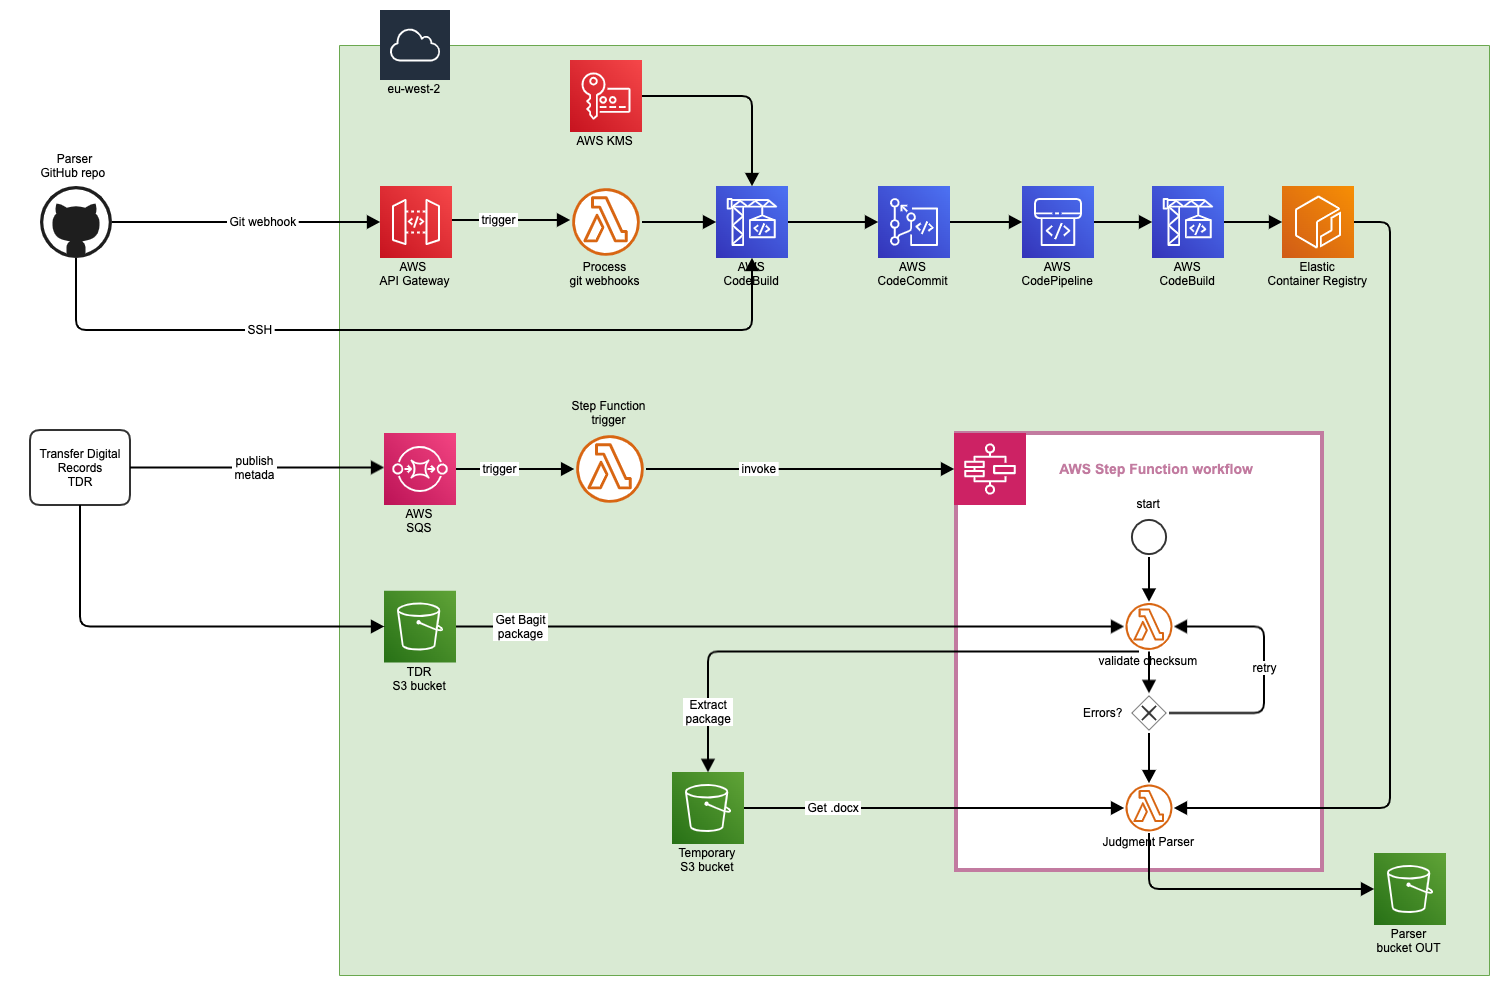
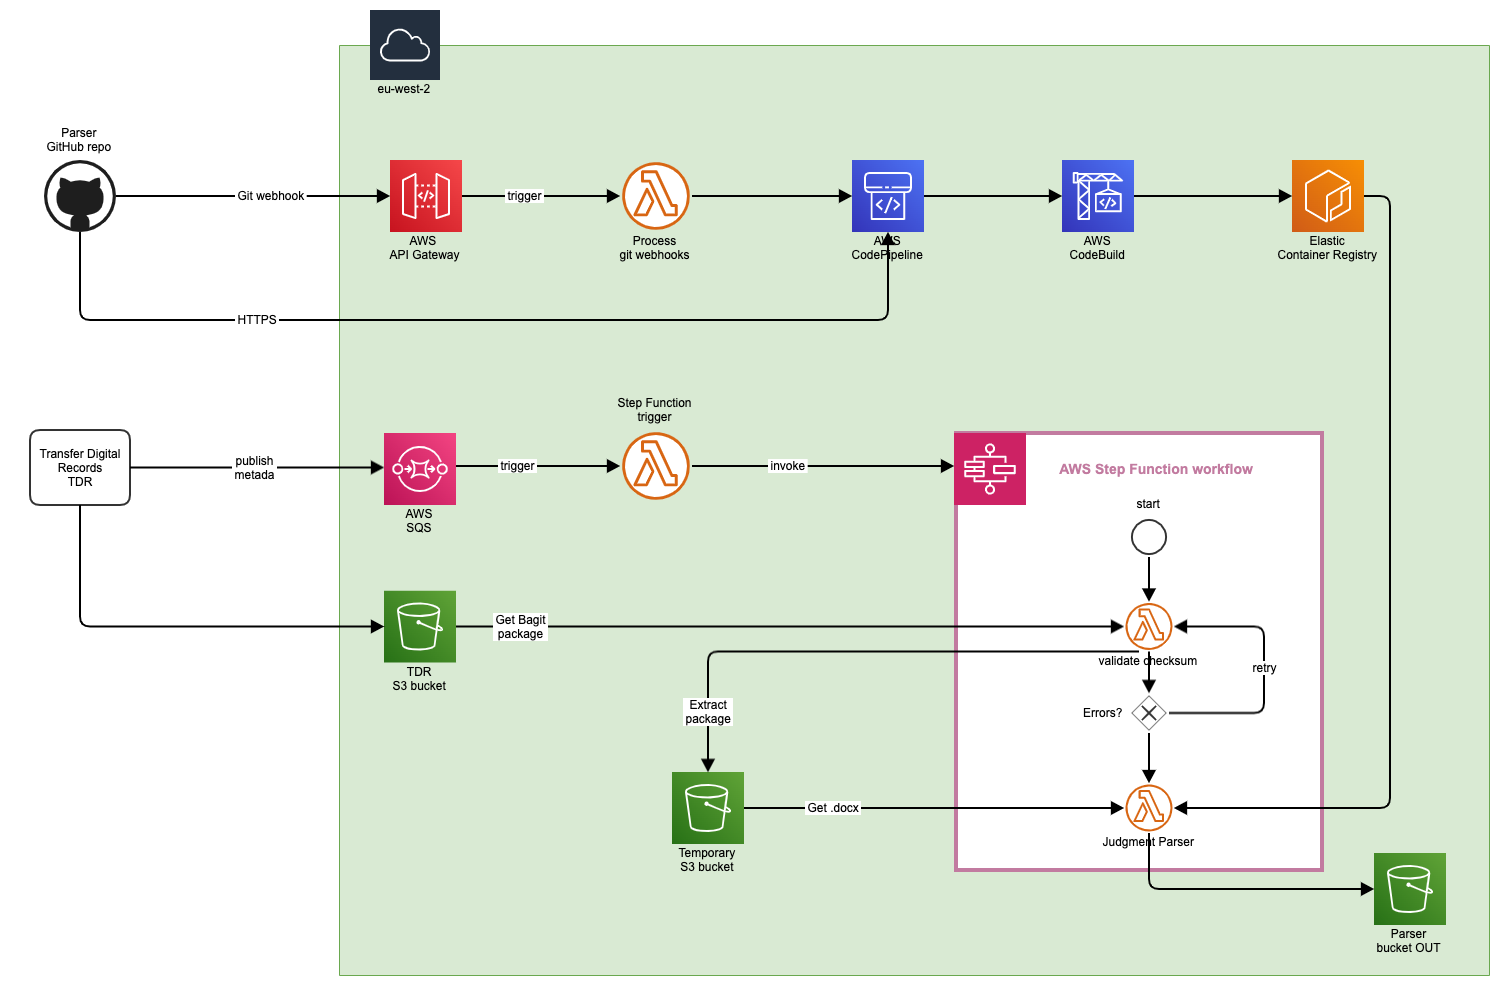
Updated the documentation.

diff --git a/parser-integration/README.md b/parser-integration/README.md
@@ -19,13 +19,14 @@ The following architecture diagram simplifies the proposed solution for Parser i
 
 ### Integration
 
-The source code of the text parser is stored in a GitHub [repository](https://github.com/mangiafico/tna-judgments). As shown in the above diagram:
-
+The source code of the text parser is stored in a TNA GitHub [repository](https://github.com/nationalarchives/tna-judgments-parser). As shown in the above diagram:
 
 1. Amazon API Gateway receives Git webhook requests and forward them to AWS Lambda.
 2. An AWS Lambda function processes Git webhook requests from API Gateway and invoke an AWS CodeBuild project.
-3. An AWS CodeBuild project connetcs to Git service, then retrieves and uploads the latest version of the Git repository to Amazon CodeCommit.
-4. An AWS Key Management Service (AWS KMS) key to encrypt/decrypt the SSH (Secure Shell) keys used by AWS CodeBuild to connect to Git repository using SSH.
+3. An AWS CodeBuild project connetcs to Git service, then retrieves the latest version of the text parser from the Git repository.
+4. AWS CodeBuild builds the text parser from the source code and stores the artefact to AWS ECR.
+5. An AWS Lambda Function is defined using the artefact stored in AWS ECR.
+6. This Lambda Function will be invked by the AWS Step Function. 
 
 ### Data flow
 
@@ -40,4 +41,4 @@ The source code of the text parser is stored in a GitHub [repository](https://gi
 
 ## References
 
-- https://aws.amazon.com/quickstart/architecture/git-to-s3-using-webhooks/
+- https://docs.aws.amazon.com/lambda/latest/dg/gettingstarted-images.html

diff --git a/tdr-integration/README.md b/tdr-integration/README.md
@@ -26,6 +26,8 @@ TE will exchange messages with TDR using an AWS SQS queue as per the [MVP Beta t
 
 ## Credentials exchange and bucket permissions
 
-In the AWS Account where the TE is provisioned there will be an AWS IAM Role with permissions to write to the AWS SQS queue. This IAM Role will be assumed by the TDR system so that it will have the permissions to send a message to the queue.
+In the AWS Account where the TDR system is provisioned there will be AWS IAM Roles defined, based on prod and non-prod environments. In the same way, in the AWS Account where the TE is provisioned there will be AWS IAM Roles defined, based on prod and non-prod environaments.
+
+TDR IAM Roles will have permissions to write a message to the AWS SQS queue in the AWS account where the TE is provisioned, and TE IAM Roles will have permissions to write a message to the AWS SQS queue where the TDR is provisioned.
 
 The message will contain [S3 presigned URLs](https://docs.aws.amazon.com/AmazonS3/latest/userguide/ShareObjectPreSignedURL.html) to retrieve the objects from the TDR S3 bucket.
